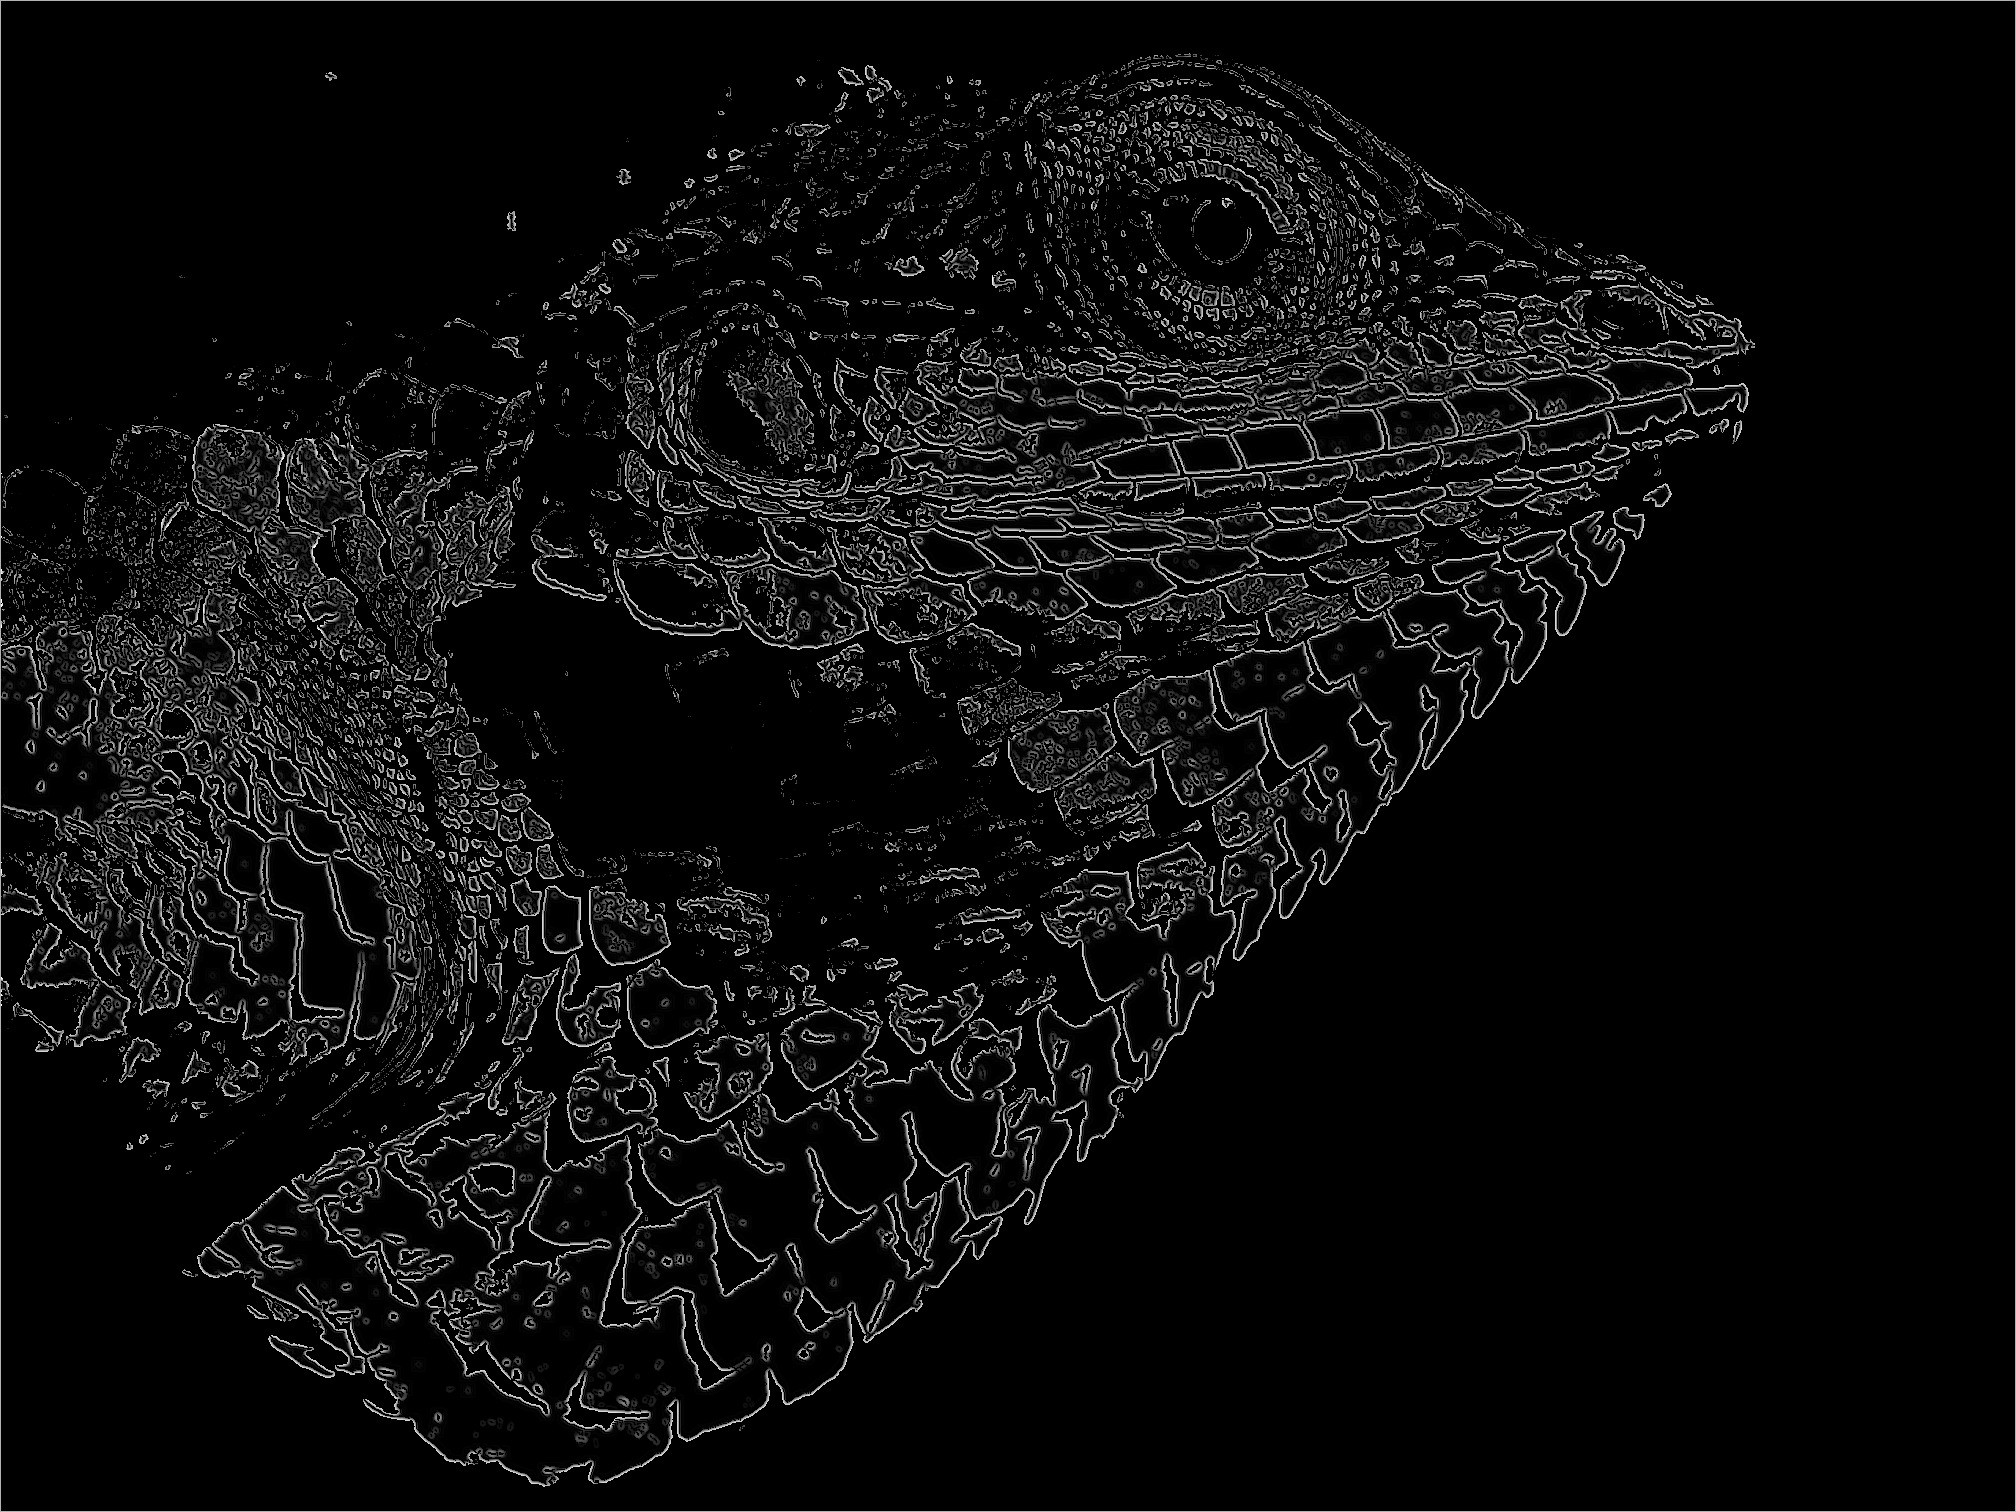
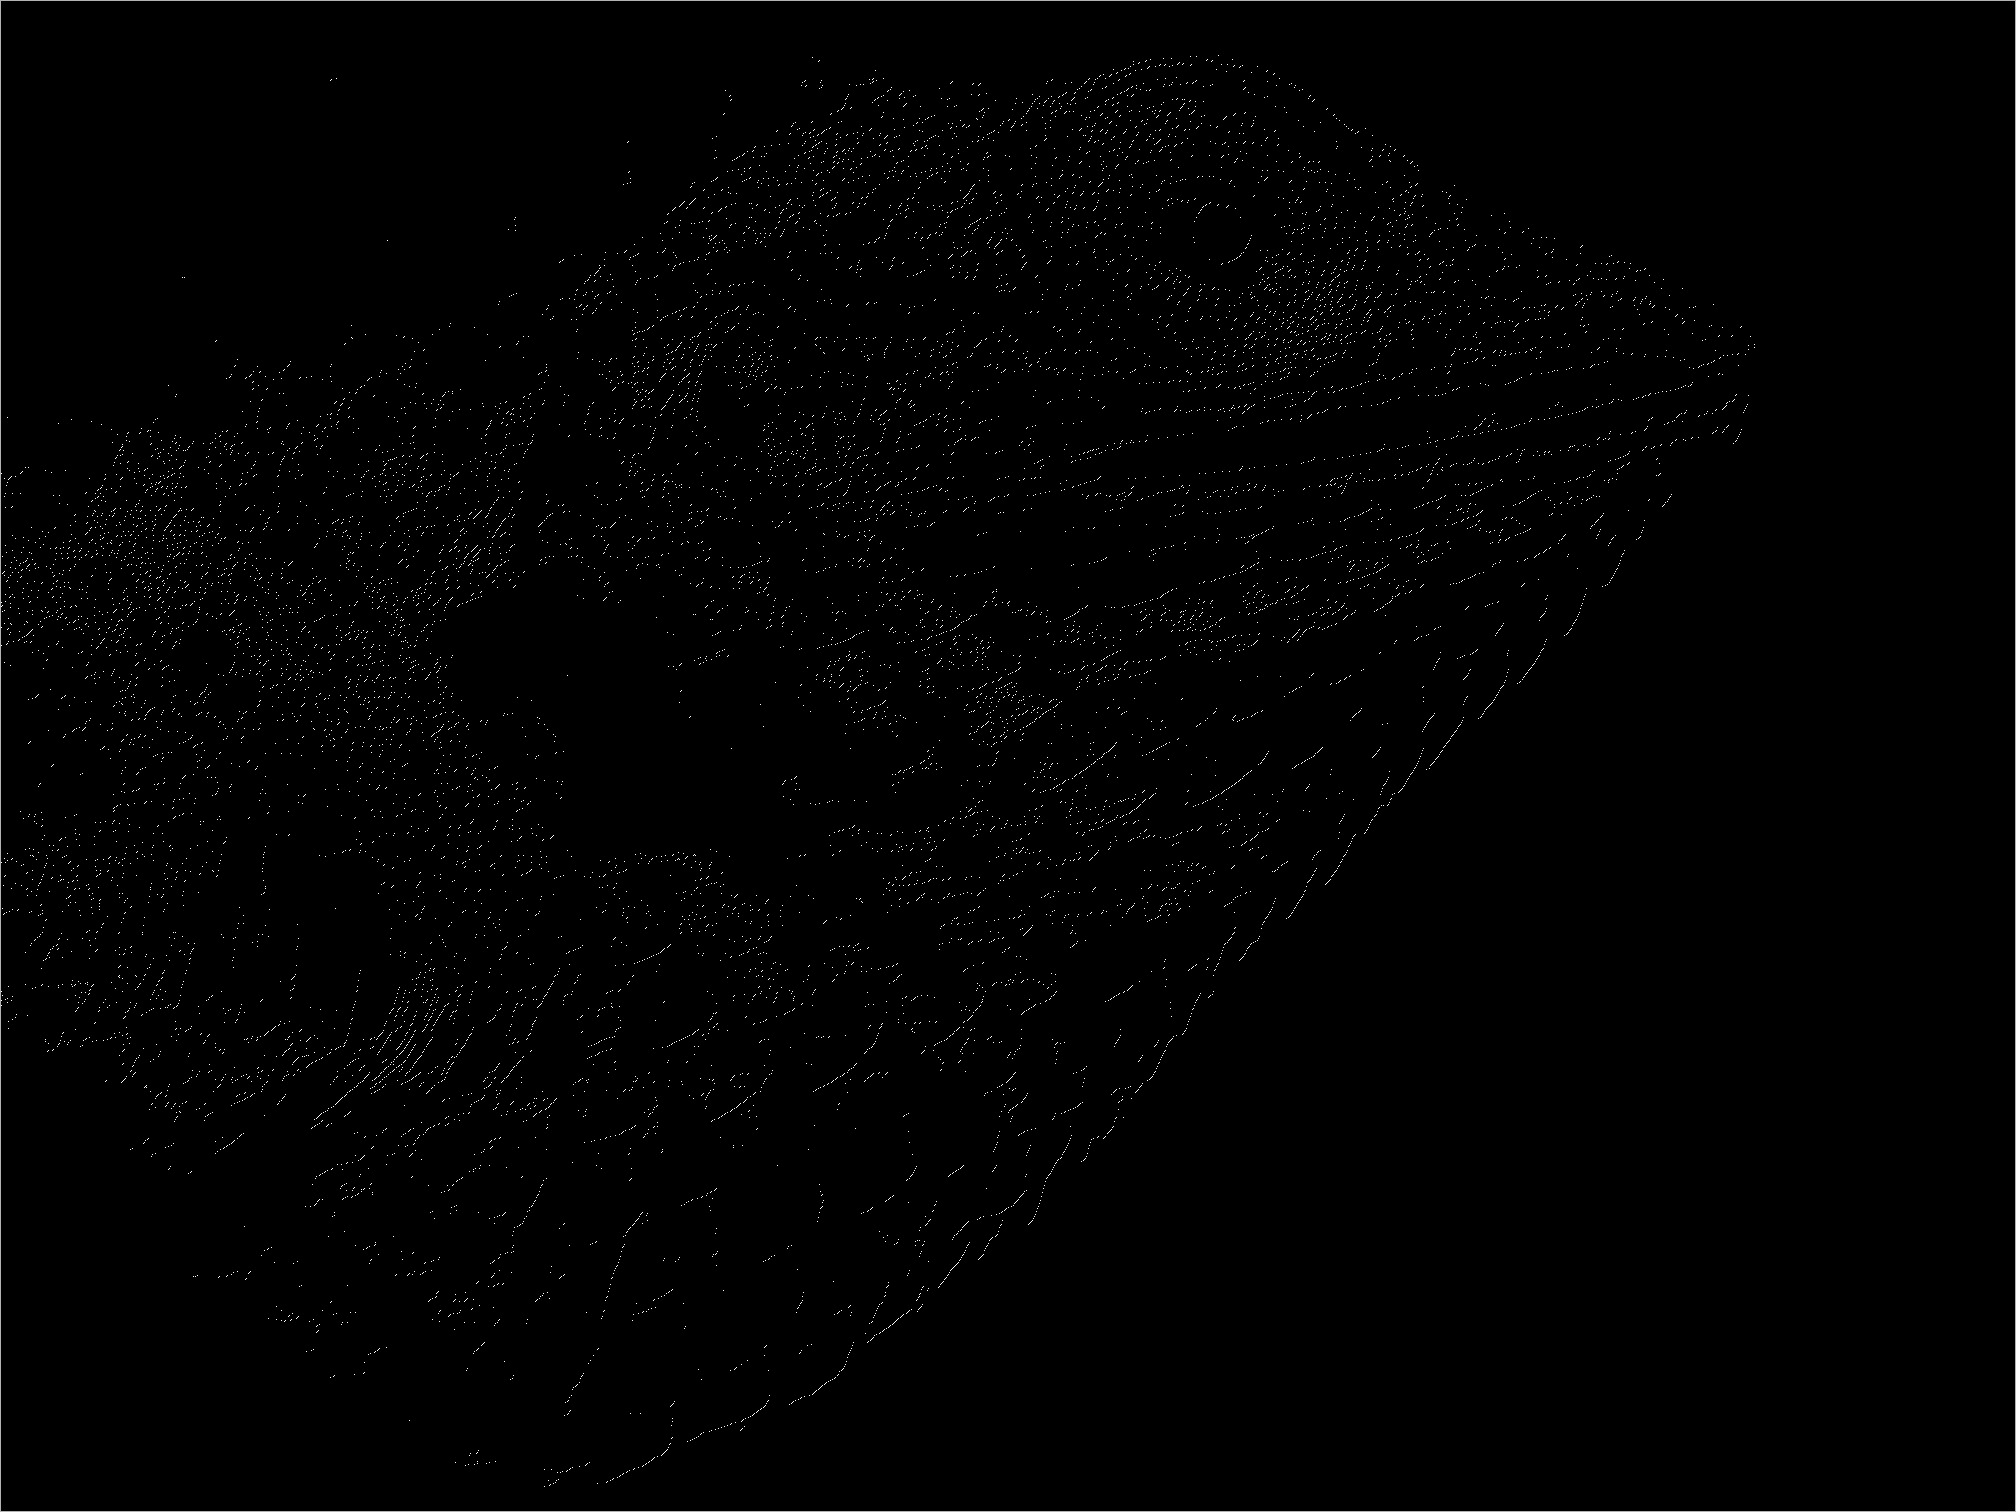
finish canny, add folder for lab5

diff --git a/Project4/l04.cpp b/Project4/l04.cpp
@@ -273,17 +273,57 @@ class RGBImage { // size_t is cool
                         // out.img[i][j][2] = 255;
                     }
                     else if(getGrayscale(i, j) > high) { // strong edge pixel
-                        // out.setGrayscale(i, j, 255);
+                        out.setGrayscale(i, j, 255);
                         // out.img[i][j][1] = 255;
                     }     
                     else { // weak edge pixel
                         // out.img[i][j][0] = 255;
-                        out.setGrayscale(i, j, 0);
+                        out.setGrayscale(i, j, 127);
                     }          
                 }
             }
             return out;
         }
+
+        void thinEdges(RGBImage &img) {
+            // loop until image has not changed
+            bool changed = true;
+            while (changed) {
+                changed = false;
+                // loop over the pixels in the image
+                for (size_t y = 1; y < RGB_H - 1; y++) {
+                    for (size_t x = 1; x < RGB_W - 1; x++) {
+                        int G = img.getGrayscale(y, x);
+                        if (G != 255) {
+                            // pixel is not a strong edge pixel, skip it
+                            continue;
+                        }
+                        else { // weak edge pixel, or nothing
+                            // check if pixel is aligned with its neighbors
+                            bool aligned = false;
+                            int topG = img.getGrayscale(y - 1, x);
+                            int bottomG = img.getGrayscale(y + 1, x);
+                            int leftG = img.getGrayscale(y, x - 1);
+                            int rightG = img.getGrayscale(y, x + 1);
+                            if (topG == 255 || bottomG == 255) {
+                                // pixel is aligned with its vertical neighbors
+                                aligned = true;
+                            } 
+                            else if (leftG == 255 || rightG == 255) {
+                                // pixel is aligned with its horizontal neighbors
+                                aligned = true;
+                            }
+                            if (aligned) {
+                                // pixel is a weak edge pixel and aligned with its neighbors, remove it
+                                img.setGrayscale(y, x, 0);
+                                changed = true;
+                            }
+                        } 
+                    }
+                }
+            }
+        }
+
 
         void combineImgs(const RGBImage &img1, const RGBImage &img2) {
             for(int i = 0; i < RGB_H; i++) {
@@ -336,7 +376,8 @@ int main() {
     asdf.binaryThresh(100);
     asdf.binaryThresh(250);
     // static RGBImage foo = RGBImage(); foo.combineImgs(img2, asdf);
-    static RGBImage canny = img.canny(sobelx, sobely, _img6, 105, 120);
+    static RGBImage canny = img.canny(sobelx, sobely, _img6, 50, 120);
+    canny.thinEdges(canny);
     canny.write("l04.ppm");
     cout << "performed convolution" << endl;
     

diff --git a/Project5/l05.cpp b/Project5/l05.cpp
@@ -1,0 +1,11 @@
+#include <l01.h>
+#include <l02lib.h>
+
+#include <fstream>
+#include <iostream>
+#include <numeric>
+#include <cmath>
+
+int main() {
+    cout << "hello there" << endl;
+}
